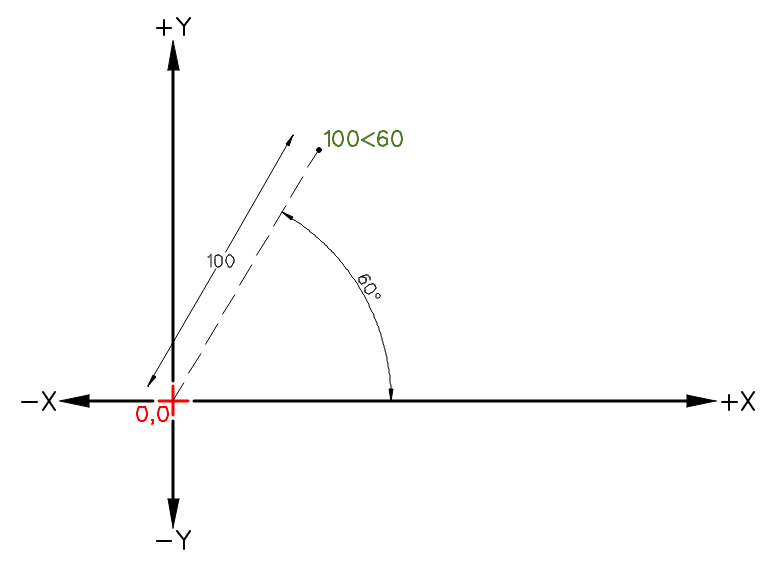
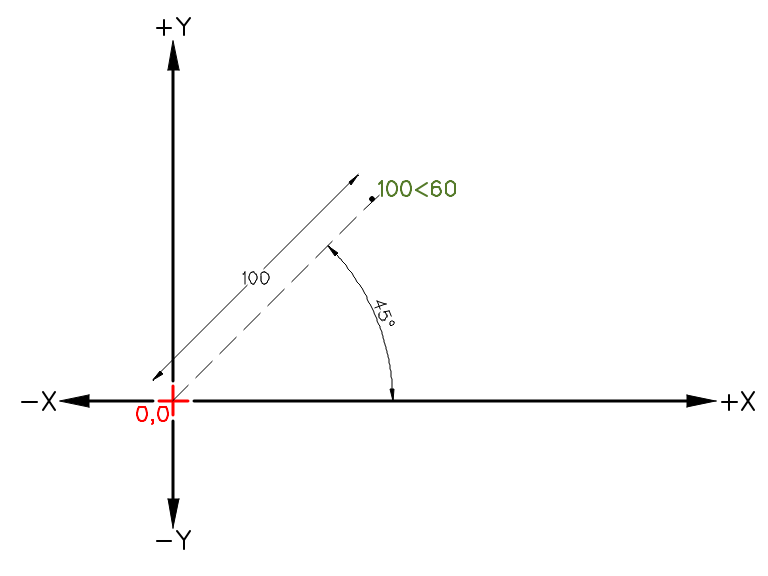
Replace byPolar.png

diff --git a/ref/fundamentals.rst b/ref/fundamentals.rst
@@ -107,7 +107,7 @@ The *Cartesian* coordinate system is commonly used in most CAD programs.  Cartes
 Polar
 `````
 
-The *Polar* coordinate system uses one distance and one angle to locate a point in a drawing.  In LibreCAD the *<* symbol is used to designate an angle when using polar coordinates.  Polar coordinates take the form *100 < 60*, indicating a line 100 units long and at an angle of 60 degrees as shown.
+The *Polar* coordinate system uses one distance and one angle to locate a point in a drawing.  In LibreCAD the *<* symbol is used to designate an angle when using polar coordinates.  Polar coordinates take the form *100<45*, indicating a line 100 units long and at an angle of 45 degrees as shown.
 
 .. only:: html
 
